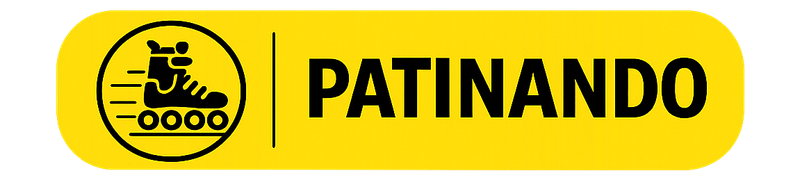
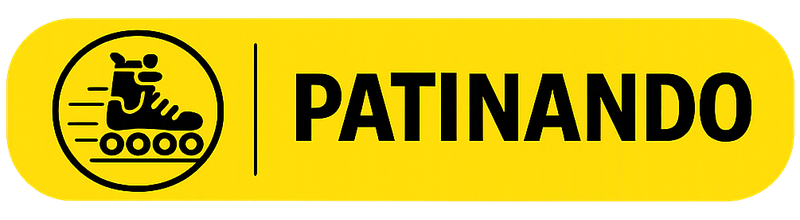
fix: agranda un poco los botones de modo y les agrega contorno/sombra
Recorte más ajustado + lienzo compartido más alto (800x220 en vez de
800x180) para un tamaño ~22% mayor, más drop-shadow (sigue el
contorno real de la píldora, respeta la transparencia del PNG) y una
leve animación de presión (active:scale-95) para que no se sientan
tan planos.

diff --git a/src/components/Mapa/MapaView.tsx b/src/components/Mapa/MapaView.tsx
@@ -806,20 +806,28 @@ export function MapaView() {
                   desapareces del mapa y el GPS deja de usarse para esto.
                 </p>
                 <div className="flex gap-2">
-                  <button type="button" onClick={() => activarModo("patinando")} className="flex-1">
+                  <button
+                    type="button"
+                    onClick={() => activarModo("patinando")}
+                    className="flex-1 transition-transform active:scale-95"
+                  >
                     {/* eslint-disable-next-line @next/next/no-img-element */}
                     <img
                       src="/boton-patinando.png"
                       alt="Estoy patinando ahora"
-                      className="h-auto w-full object-contain"
+                      className="h-auto w-full object-contain drop-shadow-[0_3px_6px_rgba(0,0,0,0.5)]"
                     />
                   </button>
-                  <button type="button" onClick={() => activarModo("ruta")} className="flex-1">
+                  <button
+                    type="button"
+                    onClick={() => activarModo("ruta")}
+                    className="flex-1 transition-transform active:scale-95"
+                  >
                     {/* eslint-disable-next-line @next/next/no-img-element */}
                     <img
                       src="/boton-estoy-en-ruta.png"
                       alt="Estoy en ruta"
-                      className="h-auto w-full object-contain"
+                      className="h-auto w-full object-contain drop-shadow-[0_3px_6px_rgba(0,0,0,0.5)]"
                     />
                   </button>
                 </div>